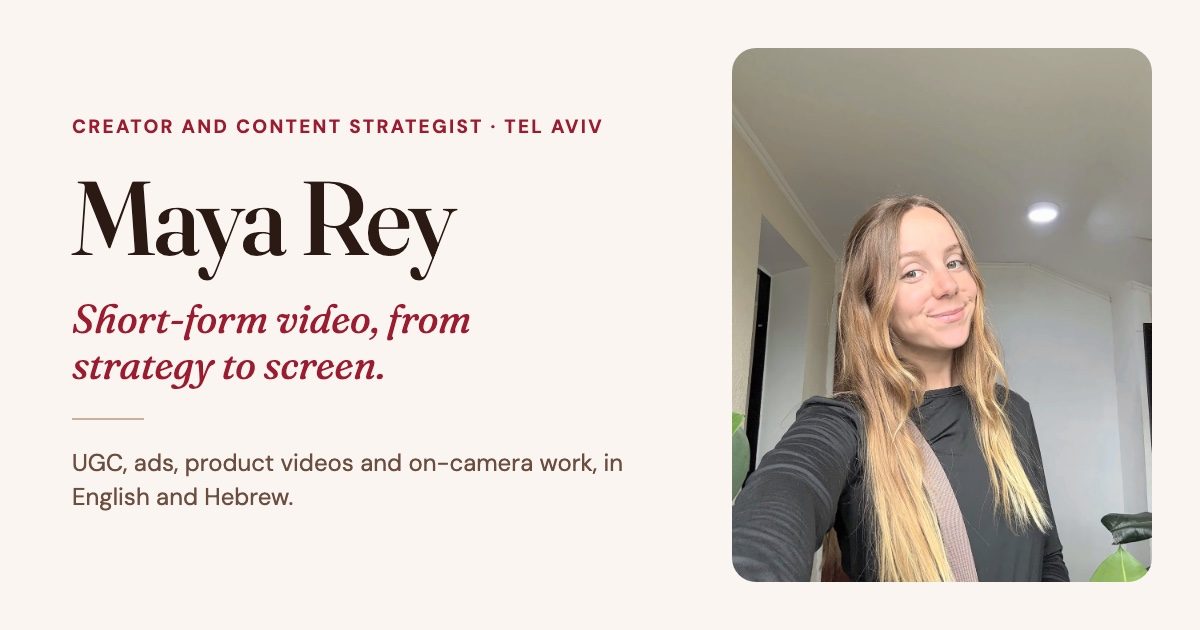
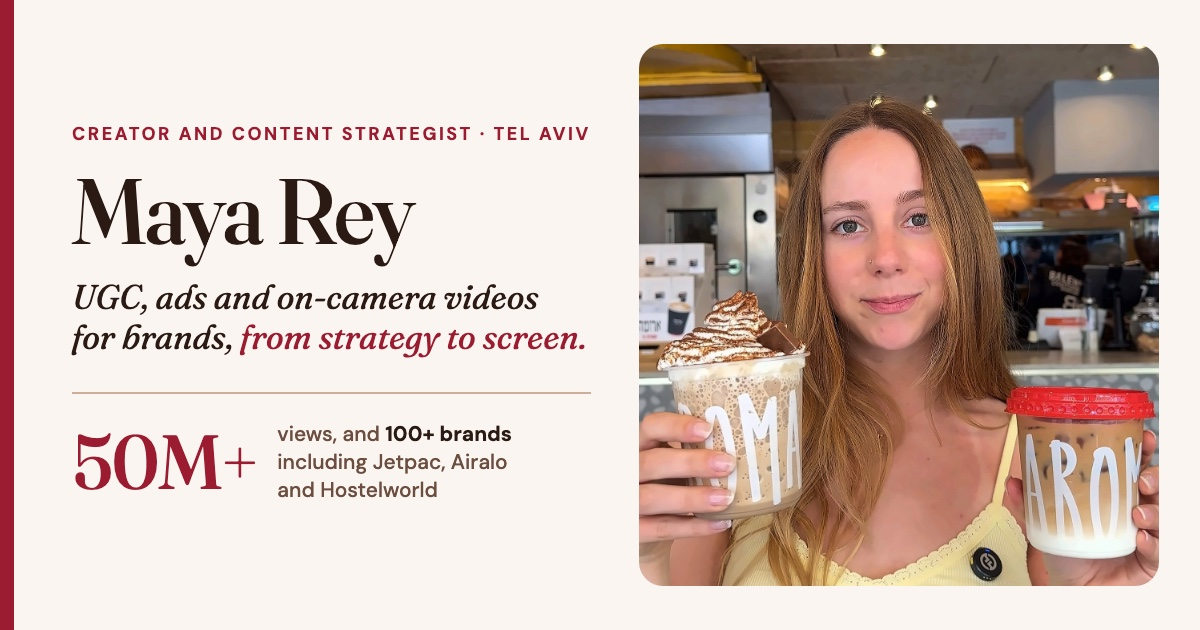
Link preview: Aroma card with services and 50M+ views

diff --git a/og-card.html b/og-card.html
@@ -2,32 +2,38 @@
 <html>
 <head>
 <meta charset="utf-8">
-<!-- Source for images/og-image.jpg (the link preview card). Not linked from the site. -->
+<!-- Source for images/og-image.jpg (the link preview card). Not deployed (see .vercelignore). -->
 <link href="https://fonts.googleapis.com/css2?family=Fraunces:ital,opsz,wght@0,9..144,400;0,9..144,500;1,9..144,400&family=DM+Sans:wght@400;500;700&display=swap" rel="stylesheet">
 <style>
   :root{--accent:#9B1B30;--bg:#FAF5F0;--ink:#2B1A14;--muted:#6B4E40;--line:#CDAE9A}
   *{margin:0;box-sizing:border-box}
   html,body{width:1200px;height:630px;background:var(--bg);overflow:hidden}
-  .card{display:flex;width:1200px;height:630px;padding:48px;gap:56px}
-  .text{flex:1;display:flex;flex-direction:column;justify-content:center;padding-left:24px}
-  .eyebrow{font:700 19px/1.3 'DM Sans',sans-serif;letter-spacing:.12em;text-transform:uppercase;color:var(--accent);margin-bottom:26px}
-  h1{font:500 104px/1 'Fraunces',Georgia,serif;letter-spacing:-.02em;color:var(--ink);margin-bottom:26px}
-  .line{font:italic 400 40px/1.15 'Fraunces',Georgia,serif;color:var(--accent);margin-bottom:30px;text-wrap:balance}
-  .rule{width:72px;height:2px;background:var(--line);margin-bottom:26px}
-  .what{font:400 24px/1.45 'DM Sans',sans-serif;color:var(--muted);max-width:560px}
-  .photo{width:420px;height:534px;border-radius:24px;object-fit:cover;object-position:50% 38%;display:block}
+  .card{position:relative;display:flex;width:1200px;height:630px;padding:44px 44px 44px 72px;gap:48px}
+  .card::before{content:"";position:absolute;left:0;top:0;bottom:0;width:14px;background:var(--accent)}
+  .text{flex:1;display:flex;flex-direction:column;justify-content:center}
+  .eyebrow{font:700 18px/1 'DM Sans',sans-serif;letter-spacing:.14em;text-transform:uppercase;color:var(--accent);margin-bottom:22px;white-space:nowrap}
+  h1{font:500 92px/1 'Fraunces',Georgia,serif;letter-spacing:-.02em;color:var(--ink);margin-bottom:20px}
+  .line{font:italic 400 34px/1.18 'Fraunces',Georgia,serif;color:var(--ink);margin-bottom:34px;text-wrap:balance}
+  .line em{color:var(--accent)}
+  .stat{display:flex;align-items:center;gap:20px;padding-top:26px;border-top:2px solid var(--line)}
+  .num{font:500 76px/0.9 'Fraunces',Georgia,serif;color:var(--accent);letter-spacing:-.02em}
+  .lab{font:500 21px/1.35 'DM Sans',sans-serif;color:var(--muted)}
+  .lab b{color:var(--ink);font-weight:700}
+  .photo{width:520px;height:542px;border-radius:24px;object-fit:cover;object-position:50% 40%;display:block}
 </style>
 </head>
 <body>
 <div class="card">
   <div class="text">
-    <div class="eyebrow">Creator and Content Strategist · Tel Aviv</div>
+    <div class="eyebrow">Creator and content strategist · Tel Aviv</div>
     <h1>Maya Rey</h1>
-    <div class="line">Short-form video, from strategy to screen.</div>
-    <div class="rule"></div>
-    <div class="what">UGC, ads, product videos and on-camera work, in English and Hebrew.</div>
+    <div class="line">UGC, ads and on-camera videos for brands, <em>from strategy to screen.</em></div>
+    <div class="stat">
+      <div class="num">50M+</div>
+      <div class="lab">views, and <b>100+ brands</b><br>including Jetpac, Airalo<br>and Hostelworld</div>
+    </div>
   </div>
-  <img class="photo" src="images/about.jpg" alt="">
+  <img class="photo" src="images/hero-mid.jpg" alt="">
 </div>
 </body>
 </html>

diff --git a/index.html b/index.html
@@ -6,8 +6,8 @@
 <title>Maya Rey | Creator and Content Strategist</title>
 <meta name="description" content="Maya Rey is a creator and content strategist in Tel Aviv. Short-form video from strategy to screen: UGC, ads, product videos, on-camera talent and event coverage, in English and Hebrew.">
 <meta property="og:title" content="Maya Rey | Creator and Content Strategist">
-<meta property="og:description" content="Short-form video, from strategy to screen. 50M+ views, 100+ brands.">
-<meta property="og:image" content="https://mayarey.vercel.app/images/og-image.jpg">
+<meta property="og:description" content="UGC, ads and on-camera videos for brands, from strategy to screen. 50M+ views, 100+ brands.">
+<meta property="og:image" content="https://mayarey.vercel.app/images/og-image.jpg?v=2">
 <meta property="og:image:width" content="1200">
 <meta property="og:image:height" content="630">
 <meta property="og:image:alt" content="Maya Rey, Creator and Content Strategist in Tel Aviv. Short-form video, from strategy to screen.">
